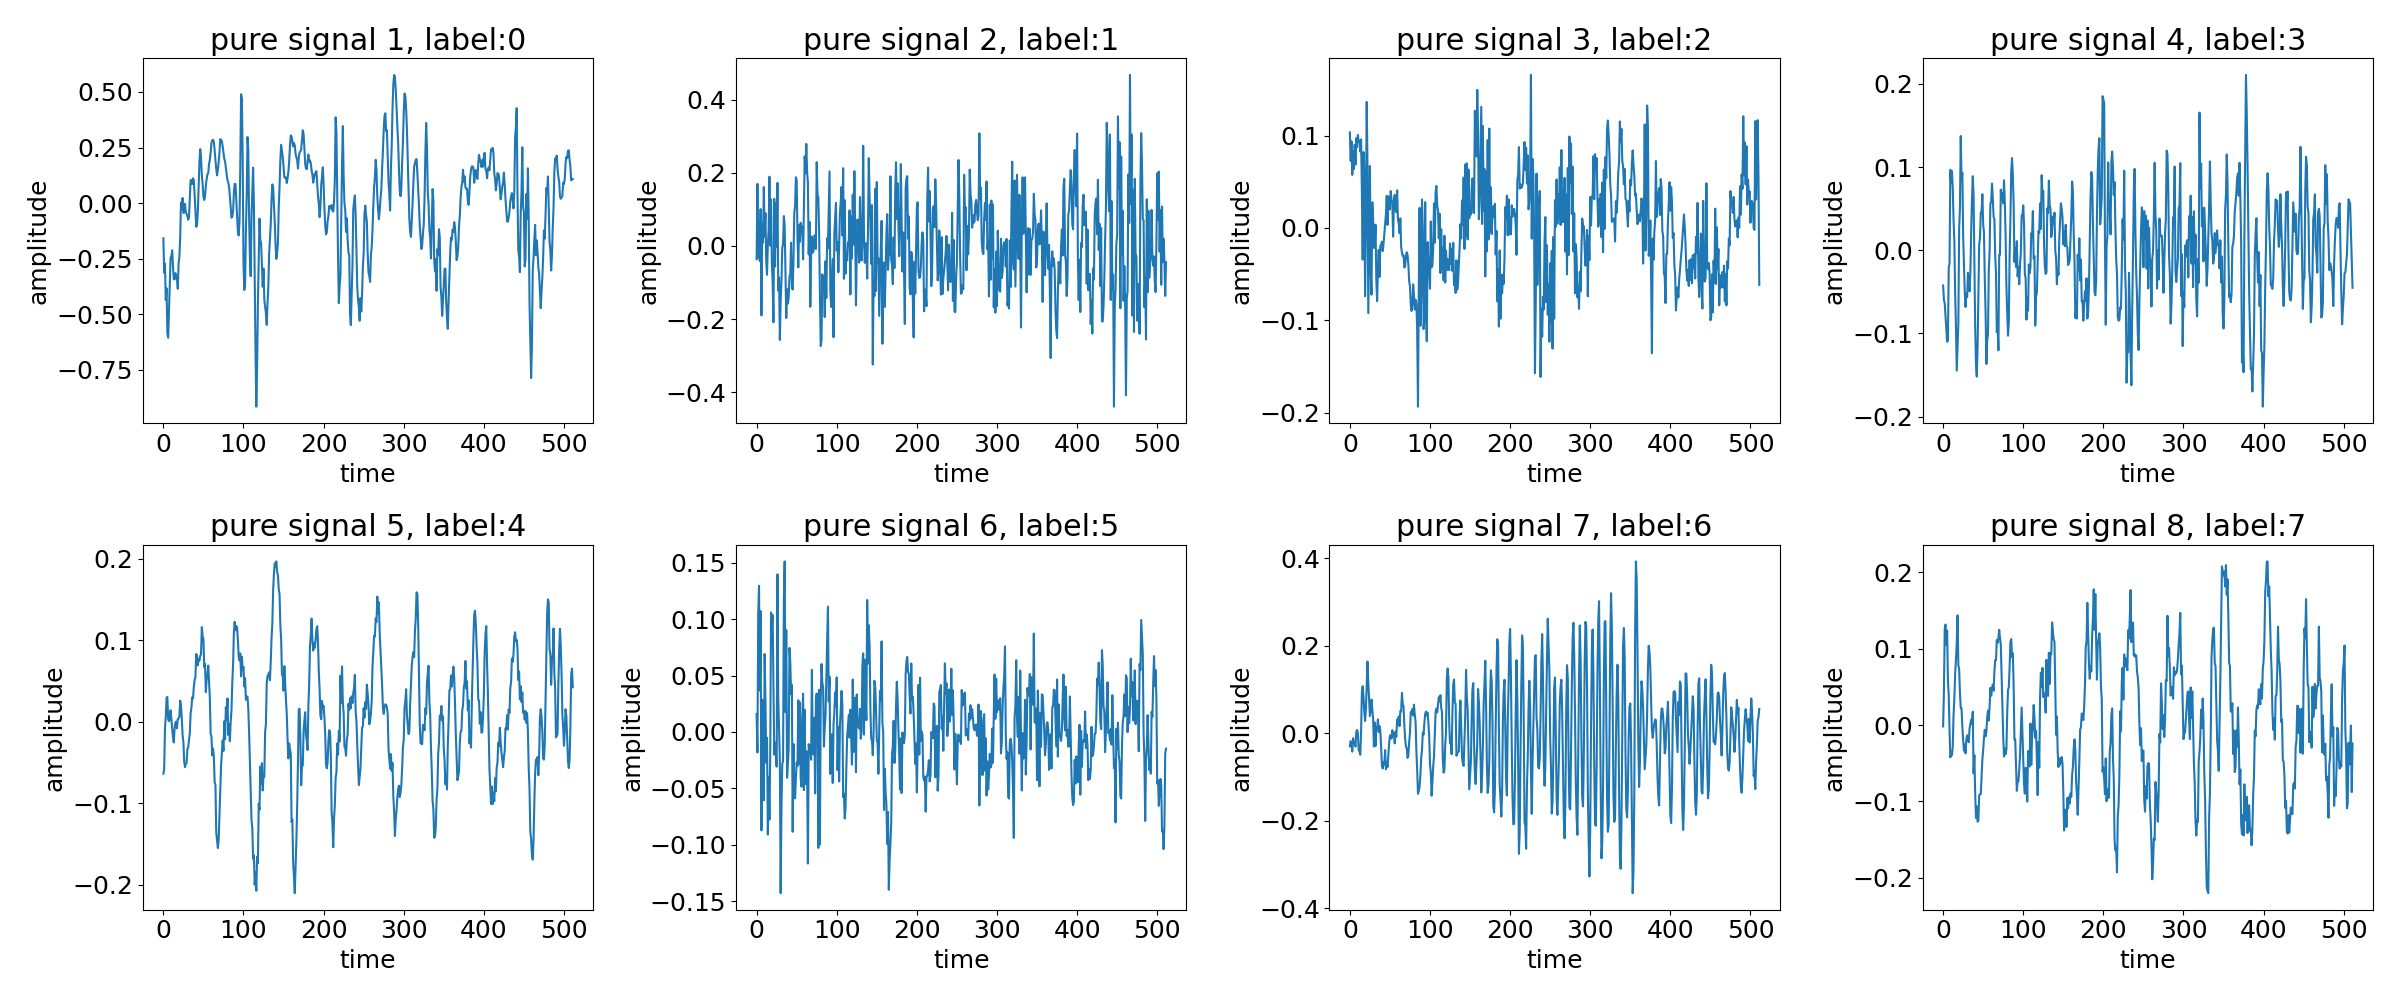
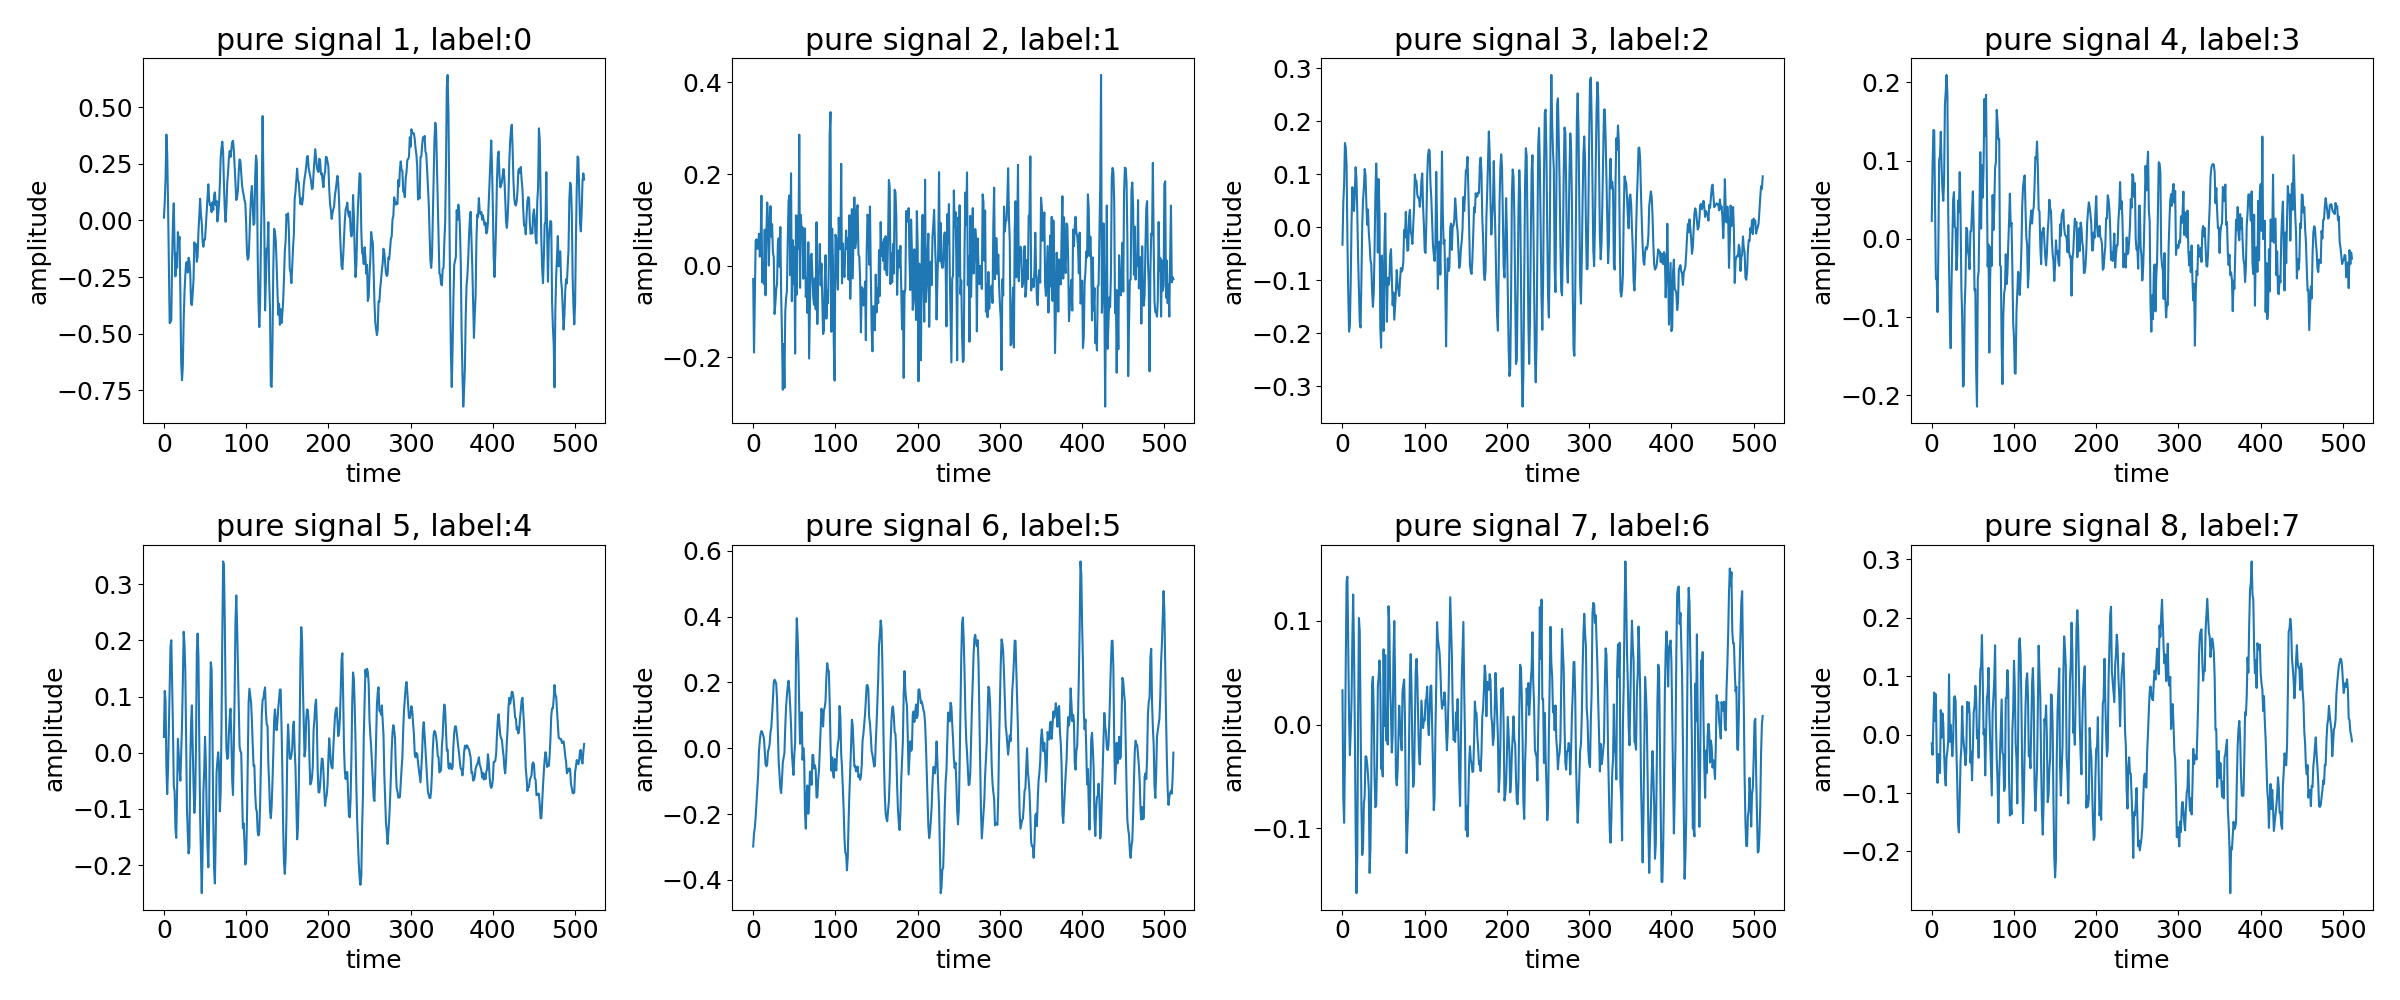
代码验证失败

diff --git a/train.py b/train.py
@@ -11,6 +11,8 @@ from torch import tensor
 from torch.utils.data import DataLoader, TensorDataset
 from torch.utils.tensorboard import SummaryWriter
 from tqdm import tqdm
+from scipy.io import loadmat
+from scipy.signal import stft
 
 from model.ddpm import DDPM, build_network
 from model.fft_loss import CombinedLoss
@@ -496,9 +498,19 @@ def prepare_data(data_path='./data',
         plt.savefig(os.path.join('./work_dirs/classify',denoising_properties['denoising method'] + task_type + '_signal.png'))
         plt.close()
         # 将处理后的数据保存
-        # dataset.save(root_dir, 'reduce_noise_model_bi_lstm_big_huber_loss_power_snr')
+        # 将处理后的数据保存（统一到 save_dir）
+        os.makedirs(save_dir, exist_ok=True)
+        dataset.save(save_dir, 'reduce_noise_model_bi_lstm_big_huber_loss_power_snr')
         method = denoising_properties['denoising method']
         dataset.save(save_dir, f'{method}_denoised')
+        try:
+            saved_mat_path = os.path.join(save_dir, f'{method}_denoised.mat')
+            trace_and_plot(saved_mat_path, data_path, row_idx=0, fs=5120, do_stft=True,
+                           out_png=os.path.join(save_dir, f'trace_row0_{method}.png'))
+        except Exception as e:
+            print("[trace_and_plot skipped]", e)
+
+
     else:
         dataset = Signals(data_path, slice_length=slice_length, slice_type=slice_type,
                           add_noise=add_noise, windows_rate=windows_ratio, delete_labels=delete_labels)
@@ -609,6 +621,122 @@ def train_sd_ddim():
     device = "cuda" if torch.cuda.is_available() else "cpu"
     for model_name, config_id, log_dir in zip(model_names, config_ids, log_dirs):
         train_ddpm(device, model_name, './data', config_id, log_dir, 300)
+def _crop_20_80(x):
+    L = len(x)
+    return x[int(0.2*L): int(0.8*L)]
+
+def _slice_512(x, slice_idx, slice_len=512):
+    start = slice_idx * slice_len
+    end   = start + slice_len
+    return x[start:end]
+
+def _read_axis_from_mat(mat_path, axis_key):
+    raw = loadmat(mat_path)
+    names = [v[0][0] for v in raw['data'][0]]
+    series = [v[1].T[0] for v in raw['data'][0]]
+    name2series = dict(zip(names, series))
+    return name2series[axis_key]
+def _matcell_to_pystr(x):
+    # 把 loadmat 读出的各种字符串形态（object cell、char 数组等）统一转成 Python str
+    import numpy as np
+    if isinstance(x, str):
+        return x
+    if isinstance(x, np.ndarray):
+        if x.dtype == object and x.size == 1:
+            return _matcell_to_pystr(x.item())           # 1x1 object cell -> 递归取出
+        if x.dtype.kind in ('U', 'S'):                   # char 数组，如 (1, N)
+            return ''.join(x.astype(str).ravel().tolist())
+        if x.size == 1:
+            return _matcell_to_pystr(x.reshape(-1)[0])   # 其它单元素数组
+    return str(x)
+
+def _matcell_to_int(x):
+    import numpy as np
+    if isinstance(x, (int, np.integer)):
+        return int(x)
+    if isinstance(x, np.ndarray):
+        try:
+            return int(x.item())                         # 标量 cell
+        except Exception:
+            return int(np.array(x).reshape(-1)[0])       # 展平取第一个
+    return int(x)
+
+
+def _as_str(x):
+    """把 loadmat 读出来的字符串（可能是 object cell、char 数组、标量 ndarray）统一转成 Python str"""
+    if isinstance(x, str):
+        return x
+    if isinstance(x, np.ndarray):
+        # object cell 的常见情况：1x1 或 形如 arr[row] 得到的 0d/1d object
+        if x.dtype == object:
+            if x.ndim == 0:
+                return _as_str(x.item())
+            # 展平取第一个元素递归解包（用于 arr[row_idx] 是 object 的情况）
+            return _as_str(x.reshape(-1)[0])
+        # char 数组（U/S 类型），如 (1, N) 或 (N,)
+        if x.dtype.kind in ("U", "S"):
+            return "".join(x.astype(str).ravel().tolist())
+        # 其它 ndarray：若是单元素，也当成标量处理
+        if x.size == 1:
+            return _as_str(x.reshape(-1)[0])
+    # 兜底
+    return str(x)
+
+def _as_int(x):
+    """把 loadmat 读出来的标量（可能是 0d/1d ndarray 或 object cell）统一成 int"""
+    if isinstance(x, (int, np.integer)):
+        return int(x)
+    if isinstance(x, np.ndarray):
+        try:
+            return int(x.item())
+        except Exception:
+            return int(np.array(x).reshape(-1)[0])
+    return int(x)
+
+def trace_and_plot(saved_mat_path, data_root, row_idx, fs=5120, do_stft=True, out_png=None):
+    saved = loadmat(saved_mat_path)
+
+    # 去噪后/保存的 512 点
+    data_row = np.asarray(saved["data"][row_idx, :]).ravel()
+
+    # 读取 meta（关键：用 _as_str / _as_int 解包）
+    filename  = _as_str(saved["meta_filename"][row_idx])   # 原始 .mat 文件名
+    axis_key  = _as_str(saved["meta_axis"][row_idx])       # 轴键，如 'TimeData/Motor/S_x'
+    slice_idx = _as_int(saved["meta_slice_idx"][row_idx])  # 第几个 512 切片（0-based）
+
+    # 回到原始 .mat → 取对应轴 → 同样的 20%-80% 裁剪 → 同样的 512 顺切
+    ori_path  = os.path.join(data_root, filename)
+    full_axis = _read_axis_from_mat(ori_path, axis_key)
+    full_axis = _crop_20_80(full_axis)
+    ori_row   = _slice_512(full_axis, slice_idx, 512)
+
+    assert len(ori_row) == 512 and len(data_row) == 512, "长度应为 512"
+
+    # 画频谱/STFT 对比
+    if do_stft:
+        f1, t1, Z1 = stft(ori_row,  fs=fs, nperseg=128, noverlap=64)
+        f2, t2, Z2 = stft(data_row, fs=fs, nperseg=128, noverlap=64)
+        plt.figure(figsize=(14, 5))
+        plt.subplot(1, 2, 1); plt.pcolormesh(t1, f1, np.abs(Z1)); plt.title("Original STFT");  plt.xlabel("Time"); plt.ylabel("Freq (Hz)")
+        plt.subplot(1, 2, 2); plt.pcolormesh(t2, f2, np.abs(Z2)); plt.title("Denoised STFT");  plt.xlabel("Time"); plt.ylabel("Freq (Hz)")
+    else:
+        def amp_spectrum(x):
+            X = np.fft.rfft(x)
+            freqs = np.fft.rfftfreq(len(x), d=1.0/fs)
+            return freqs, np.abs(X)
+        f1, A1 = amp_spectrum(ori_row)
+        f2, A2 = amp_spectrum(data_row)
+        plt.figure(figsize=(14, 5))
+        plt.subplot(1, 2, 1); plt.plot(f1, A1); plt.title("Original FFT");  plt.xlabel("Freq (Hz)");  plt.ylabel("Amplitude")
+        plt.subplot(1, 2, 2); plt.plot(f2, A2); plt.title("Denoised FFT");  plt.xlabel("Freq (Hz)");  plt.ylabel("Amplitude")
+
+    plt.suptitle(f"{filename} | {axis_key} | slice #{slice_idx} | row {row_idx}")
+    plt.tight_layout()
+    if out_png:
+        plt.savefig(out_png, dpi=150)
+        plt.close()
+    else:
+        plt.show()
 
 
 if __name__ == '__main__':
@@ -633,29 +761,29 @@ if __name__ == '__main__':
         'windows_ratio': 0.05,
     }
 
-    train_classification(
-        log_dirs=['./run/0516n/mini', './run/0516n/small', './run/0516n/medium', './run/0516n/big'],
-        ds_config=dataset_config, add_noise=True, batch_size=batch_size
-    )  # 训练分类模型， 输入为带噪声的信号
-
-    train_classification(
-        log_dirs=['./run/0516o/mini', './run/0516o/small', './run/0516o/medium', './run/0516o/big'],
-        ds_config=dataset_config, add_noise=False, batch_size=batch_size
-    )  # 训练分类模型， 输入为原始信号
+    # train_classification(
+    #     log_dirs=['./run/0516n/mini', './run/0516n/small', './run/0516n/medium', './run/0516n/big'],
+    #     ds_config=dataset_config, add_noise=True, batch_size=batch_size
+    # )  # 训练分类模型， 输入为带噪声的信号
+    #
+    # train_classification(
+    #     log_dirs=['./run/0516o/mini', './run/0516o/small', './run/0516o/medium', './run/0516o/big'],
+    #     ds_config=dataset_config, add_noise=False, batch_size=batch_size
+    # )  # 训练分类模型， 输入为原始信号
 
     train_classification(
         log_dirs=['./run/0516dn/mini', './run/0516dn/small', './run/0516dn/medium', './run/0516dn/big'],
         denoising_properties=d_p, ds_config=dataset_config, batch_size=batch_size
     )  # 训练分类模型， 输入为带噪声的信号经过sd_ddim去噪后的信号
 
-    d_p['denoising method'] = 'kalman'
-    train_classification(
-        log_dirs=['./run/0516kal/mini', './run/0516kal/small', './run/0516kal/medium', './run/0516kal/big']
-        , denoising_properties=d_p, ds_config=dataset_config, batch_size=batch_size
-    )   # 训练分类模型， 输入为带噪声的信号经过kalman去噪后的信号
-
-    d_p['denoising method'] = 'wavelet'
-    train_classification(
-        log_dirs=['./run/0516wvlt/mini', './run/0516wvlt/small', './run/0516wvlt/medium', './run/0516wvlt/big']
-        , denoising_properties=d_p, ds_config=dataset_config, batch_size=batch_size
-    )   # 训练分类模型， 输入为带噪声的信号经过wavelet去噪后的信号
+    # d_p['denoising method'] = 'kalman'
+    # train_classification(
+    #     log_dirs=['./run/0516kal/mini', './run/0516kal/small', './run/0516kal/medium', './run/0516kal/big']
+    #     , denoising_properties=d_p, ds_config=dataset_config, batch_size=batch_size
+    # )   # 训练分类模型， 输入为带噪声的信号经过kalman去噪后的信号
+    #
+    # d_p['denoising method'] = 'wavelet'
+    # train_classification(
+    #     log_dirs=['./run/0516wvlt/mini', './run/0516wvlt/small', './run/0516wvlt/medium', './run/0516wvlt/big']
+    #     , denoising_properties=d_p, ds_config=dataset_config, batch_size=batch_size
+    # )   # 训练分类模型， 输入为带噪声的信号经过wavelet去噪后的信号

diff --git a/utils/dataset.py b/utils/dataset.py
@@ -82,31 +82,36 @@ class Signal:
             # plt.close()
         # print("data[0]=", data[0])
         slices = []
+        file_stem = Path(self.path).stem
         if self.slice_type == 'cut':
-            slices_labels = [self.label + "_" + str(i) for i in
-                             range(len(data[0][0]) // self.slice_length)]  # 生成切片标签
-            for v in data:  # 切片
-                temp = []
-                for i in range(len(v[0]) // self.slice_length):
-                    temp.append(np.array(v[0][i * self.slice_length:(i + 1) * self.slice_length]))
-                slices.append(temp)
+            # 等长顺切
+            for v in data:
+                slices.append([v[0][i:i + self.slice_length]
+                               for i in
+                               range(0, (len(v[0]) // self.slice_length) * self.slice_length, self.slice_length)])
+            # 列名：类|文件|切片号（保证唯一、可追溯）
+            slices_labels = [f"{self.label}|{file_stem}|{i}"
+                             for i in range(len(data[0][0]) // self.slice_length)]
+
         elif self.slice_type == 'window':
+            # 滑窗切片
             for v in data:
                 temp = []
                 left, right = 0, self.slice_length
-                while right < len(v[0]):  # 信号重合度为1 - self.windows_rate
+                while right < len(v[0]):  # 信号重合度为 1 - self.windows_rate
                     temp.append(np.array(v[0][left:right]))
                     left += int(self.slice_length * self.windows_rate)
                     right += int(self.slice_length * self.windows_rate)
                 slices.append(temp)
-            slices_labels = [self.label + "_" + str(i) for i in range(len(slices[0]))]
+            slices_labels = [f"{self.label}|{file_stem}|{i}" for i in range(len(slices[0]))]
+
         else:
-            for v in data:  # 存储原始数据
+            # 不切片：整个序列作为一条
+            for v in data:
                 slices.append([v[0]])
-            slices_labels = [self.label + "_" + str(i) for i in range(len(slices[0]))]
-        # print("dataLabels=", dataLabels)
-        df = DataFrame(slices, index=dataLabels, columns=slices_labels, )
-        # print("df=", df)
+            slices_labels = [f"{self.label}|{file_stem}|{i}" for i in range(len(slices[0]))]
+
+        df = DataFrame(slices, index=dataLabels, columns=slices_labels)
         return df
 
     def saveSTFT(self):
@@ -172,25 +177,42 @@ class Signals(Dataset):
         self.slice_type = slice_type
         self.data, self.target = self.makeDataSets()
 
+    # dataset.py  class Signals.makeDataSets
     def makeDataSets(self):
-        dic = {
+        axis_dic = {
             'TimeData/Motor/S_x': 0,
             'TimeData/Motor/R_y': 1,
             'TimeData/Motor/T_z': 2,
         }
-        data = []
-        target = []
-        for key in dic:
-            selected_column = self.df.loc[key]
+        data, target = [], []
+        meta = []  # 新增：与 data 的行一一对应
+
+        for axis_key, axis_id in axis_dic.items():
+            selected_column = self.df.loc[axis_key]  # 这一行里每一列是一个切片
             for j in range(len(selected_column)):
-                # 将selected_column[j]转换为(1, x)的形状
-                data.append(selected_column[j].reshape(1, -1))
-                # 获取标签
-                target.append(self.labels[selected_column.index[j].split('_')[0]])
-        if self.slice_type != 'cut' and self.slice_type != 'window':
-            # 统一数据长度, 使其具有相同的长度
+                # data
+                data.append(selected_column.iloc[j].reshape(1, -1))
+                # label_id（数字）
+                label_name, file_stem, slice_str = selected_column.index[j].split('|')
+                slice_idx = int(slice_str)
+                label_id = self.labels[label_name]
+
+                target.append(label_id)
+
+                # 收集 meta（字符串都存一份，方便写 .mat）
+                meta.append({
+                    'filename': file_stem + '.mat',
+                    'axis': axis_key,  # e.g., 'TimeData/Motor/S_x'
+                    'slice_idx': slice_idx,  # 0-based
+                    'label_name': label_name,  # e.g., 'Aligned'
+                    'label_id': label_id,
+                })
+
+        if self.slice_type not in ('cut', 'window'):
             min_length = min([len(v[0]) for v in data])
             data = [v[:, :min_length] for v in data]
+
+        self.meta = meta  # 新增：挂到对象上
         data = np.array(data)
         target = np.array(target)
         return data, target
@@ -228,10 +250,27 @@ class Signals(Dataset):
         # 3) 按 get_shape() 的最后一维重排（确保能整除，否则会 ValueError）
         cols = int(get_shape()[-1])
         data_np = data_np.reshape(-1, cols)
+        mdict = {'data': data_np, 'target': target_np}
+
+        # 新增：保存 meta
+        if hasattr(self, 'meta') and len(self.meta) == len(data_np):
+            filenames = np.array([m['filename'] for m in self.meta], dtype=object)
+            axes = np.array([m['axis'] for m in self.meta], dtype=object)
+            slice_idxs = np.array([m['slice_idx'] for m in self.meta], dtype=np.int32)
+            label_names = np.array([m['label_name'] for m in self.meta], dtype=object)
+            label_ids = np.array([m['label_id'] for m in self.meta], dtype=np.int32)
+
+            mdict.update({
+                'meta_filename': filenames,
+                'meta_axis': axes,
+                'meta_slice_idx': slice_idxs,
+                'meta_label_name': label_names,
+                'meta_label_id': label_ids
+            })
 
         # 4) 最终保存
         full_path = p / f'{file_name}.mat'
-        savemat(str(full_path), {'data': data_np, 'target': target_np})
+        savemat(str(full_path), mdict)
         print('Saved to:', full_path.resolve())
 
 
